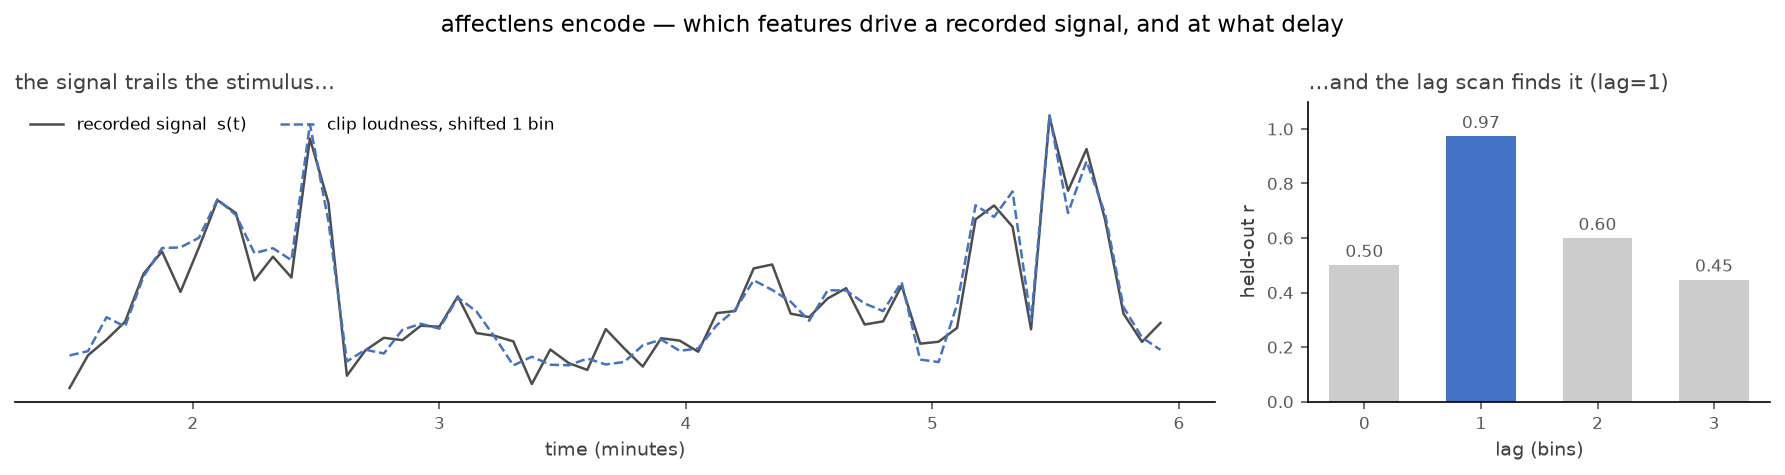
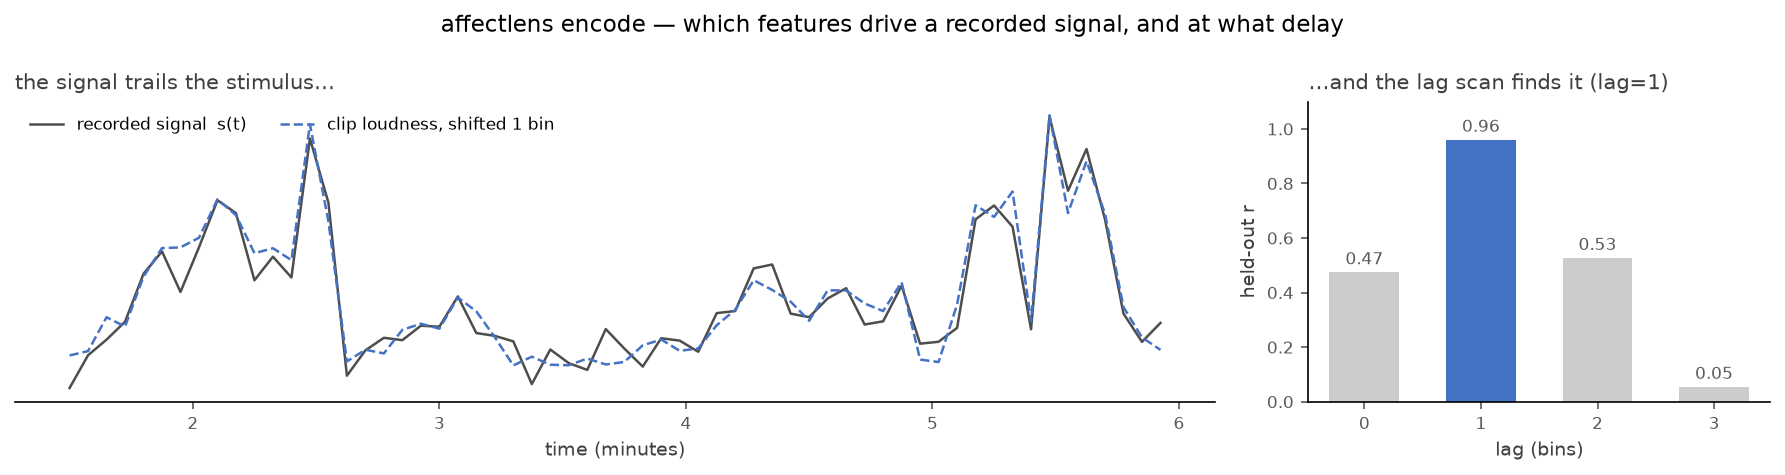
README as a report + honesty pass from an adversarial review
Reframe the README to read like a high-level report and tighten every
claim after an independent review flagged over-reach:

- encode_signal now uses CONTIGUOUS cross-validation by default
  (shuffle=False). Shuffled K-fold on an autocorrelated signal leaks
  temporally-adjacent bins across train/test and inflates held-out r —
  the wrong default for time-series/encoding work. Contiguous folds are
  the honest 'predict an unseen stretch' test. opt back in with shuffle=True.
- Results section retitled 'Does the pipeline work?' with an explicit
  'not yet validated on real neural/physiological data' disclaimer; the
  claim is now the reseed-stable qualitative result (recovers the right
  lag + right feature), with r reported as a near-noise-ceiling sanity
  number (0.96 under contiguous CV, was a leaked 0.97).
- Drop over-strong language: 'what people felt' -> 'what people rated';
  baseline docstring 'core proof point/ground truth' -> 'baseline workflow';
  semantic features described honestly (default hashed bag-of-words, real
  embeddings optional); HRF invocation softened to 'not an HRF model';
  'which features drive the signal' -> 'which features the model leans on'.
- Add what the collaborator ask needs: low->high feature spectrum in the
  pitch, an honest 'where does affect/emotion come in?' note, held-out
  prediction framing, signal time-alignment + multi-clip guidance.

Figure regenerated under the leak-free CV (deterministic, seed 7).

diff --git a/src/affectlens/encoding.py b/src/affectlens/encoding.py
@@ -12,7 +12,8 @@ fMRI ROI or vertex time series, pupil size, heart rate...). Two views:
                       several seconds after the event); scanning lags finds it.
   encode_signal    -- a cross-validated ridge *encoding model* predicting the
                       signal from all features jointly, reporting held-out r and
-                      the per-feature weights (which features drive the signal).
+                      the per-feature weights (which features the model leans on;
+                      an importance ranking, not a clean causal attribution).
 
 The signal is resampled onto the same bins as the feature matrix X, so both
 share one time base. Lags are expressed in bins; at a 4.5 s bin size, a lag of 1
@@ -112,11 +113,21 @@ def encode_signal(
     lag_bins: int = 0,
     alphas: tuple[float, ...] = (0.1, 1.0, 10.0, 100.0, 1000.0),
     n_splits: int = 5,
+    shuffle: bool = False,
 ) -> EncodingResult:
     """Cross-validated ridge encoding model: predict the signal from all features.
 
     Reports held-out Pearson r / R2 and the standardized per-feature weights
-    (largest |weight| first) -- i.e. which features carry the signal.
+    (largest |weight| first) -- i.e. which features the model leans on (read as
+    an importance ranking, not a clean causal attribution: ridge spreads weight
+    across correlated features).
+
+    Cross-validation uses **contiguous** folds by default (``shuffle=False``).
+    Recorded signals and their stimulus features are both autocorrelated in
+    time, so shuffled folds would place a test bin's temporal neighbours in the
+    training set and leak, inflating the held-out score. Contiguous folds are
+    the honest "predict an unseen stretch" test. Pass ``shuffle=True`` only if
+    your bins are genuinely exchangeable.
     """
     X = X.select_dtypes(include=[np.number])
     signal = np.asarray(signal, dtype=float)
@@ -130,7 +141,8 @@ def encode_signal(
         return EncodingResult(float("nan"), float("nan"), n, lag_bins)
 
     preds = np.full(n, np.nan)
-    for tr, te in KFold(n_splits=min(n_splits, n), shuffle=True, random_state=0).split(fx):
+    splitter = KFold(n_splits=min(n_splits, n), shuffle=shuffle, random_state=0 if shuffle else None)
+    for tr, te in splitter.split(fx):
         scaler = StandardScaler()
         model = RidgeCV(alphas=alphas)
         model.fit(scaler.fit_transform(fx[tr]), sy[tr])

diff --git a/src/affectlens/baseline.py b/src/affectlens/baseline.py
@@ -1,8 +1,9 @@
 """Baseline model: reproduce human ratings from extracted features.
 
-The core proof point: clips in, ratings out, scored against the human labels as
-ground truth. We fit a regularized linear model (RidgeCV) per rated feature and
-report cross-validated agreement.
+The baseline workflow: clips in, ratings out, scored against whatever human
+labels you supply. We fit a regularized linear model (RidgeCV) per rated feature
+and report cross-validated agreement -- how much of a rating the low-level
+features can account for, and a reference a richer model has to beat.
 
 Scoring is cross-validated so we measure generalization, not fit. When the data
 spans multiple clips we use leave-one-clip-out folds -- the honest test of

diff --git a/README.md b/README.md
@@ -1,7 +1,7 @@
 # affectlens
 
 **Extract time-varying features from video, audio, and music — then relate them
-to what people felt or what a signal recorded.**
+to what people rated or what a signal recorded.**
 
 ![Real frames from an 11-minute film above the feature time courses affectlens extracted from it](docs/images/features.png)
 
@@ -13,18 +13,23 @@ them with `python scripts/fetch_samples.py`, regenerate the figures with
 `affectlens` turns a folder of clips into aligned feature time courses and gives
 you two ready-made ways to use them:
 
-1. **Predict human ratings** — reproduce continuous behavioral ratings (energy,
-   arousal, brightness, whatever your raters scored) from the clip content, with
-   an honest cross-validated score.
+1. **Predict human ratings** — score how well clip content predicts continuous
+   behavioral ratings you supply (energy, arousal, brightness, whatever your
+   raters scored), with leave-one-clip-out cross-validation.
 2. **Explain a recorded signal** — correlate the feature time courses against a
    separately recorded continuous signal (a physiological or neuroimaging channel
    — an EEG band envelope, an fMRI ROI time series, pupil size, heart rate) and
-   fit an encoding model that says *which features drive the signal*.
+   fit a cross-validated encoding model that both predicts the signal on held-out
+   data and ranks *which features the response leans on*.
 
-It handles the unglamorous parts for you: decoding video/audio (a working ffmpeg
-is bundled, no system install), computing features on each medium's natural
-clock, and resampling everything onto one shared time grid so your design matrix
-and your target line up row-for-row.
+The features span the range you'd want as regressors — low-level physical
+(luminance, motion, loudness, spectral shape) through high-level semantic (what
+the dialogue means).
+
+It handles the unglamorous parts for you: decoding video/audio (a static ffmpeg
+ships with it via `imageio-ffmpeg`, no system install), computing features on
+each medium's natural clock, and resampling everything onto one shared time grid
+so your design matrix and your target line up row-for-row.
 
 ![affectlens pipeline: a clip fans out into visual, audio, and semantic feature families, which align onto a shared time grid to form the feature matrix X; X feeds two workflows — a cross-validated baseline against human ratings Y, and an encoding model against a recorded signal s(t)](docs/images/pipeline.png)
 
@@ -36,6 +41,51 @@ the design matrix **X** (bins × features). From there, two workflows: a
 cross-validated **baseline** that predicts human ratings **Y**, and an
 **encode** step that relates the features to a separately recorded signal
 **s(t)** with a lag search.
+
+## Does the pipeline work?
+
+These are **sanity checks on public footage** — they show the machinery is wired
+correctly. They are *not* a validation against real recordings: affectlens has
+not yet been run on real physiological or neural data, and how well features
+explain *your* signal is the empirical question you'd bring your own data for.
+
+**It runs end-to-end.** The test suite generates programmatic test clips and
+drives the entire chain — video/audio decode → feature extraction → time-grid
+alignment → rating baseline → signal encoding. A green run means every stage
+works together, not just that the modules import.
+
+**It recovers a dependence it was never told about.** On a real 11-minute film,
+we build a mock "recording" from the clip's *own* loudness delayed by one 4.5 s
+bin, add noise, and hand it to `encode` blind. With **contiguous** cross-validation
+(temporally-adjacent bins never split across train/test, so nothing leaks), the
+lag scan peaks at the planted delay and the model concentrates its weight on the
+one feature the signal was built from:
+
+| lag (bins) | 0 | **1** | 2 | 3 |
+| --- | --- | --- | --- | --- |
+| held-out *r* | 0.47 | **0.96** | 0.53 | 0.05 |
+
+The robust, reseed-stable result is qualitative: **the scan finds the right lag
+(1) and the right feature (`audio__rms_mean`), every time.** The peak held-out
+*r* ≈ 0.96 sits near the noise ceiling set by the noise we added — it says the
+plumbing recovers a known signal at the right delay, nothing more.
+
+![encode recovering a planted one-bin lag between a clip's loudness and a demo signal](docs/images/encoding.png)
+
+Swap the mock recording for a real signal (an EEG band envelope, an fMRI ROI
+time course, pupil size) and `encode` relates your features to it the same way —
+reporting a held-out *r*, so you can ask both *"which features does the response
+lean on?"* and *"how well can I predict it?"*
+
+Reproduce the whole thing from scratch — public sample clips, one fixed-seed
+script, no private data:
+
+```bash
+pip install -e ".[dev]" matplotlib
+python scripts/fetch_samples.py                       # linked CC/public clips
+affectlens extract --clips examples/samples --out out/
+python scripts/make_readme_figures.py                 # regenerates the figures here
+```
 
 ## Install
 
@@ -71,11 +121,9 @@ affectlens encode --features out/clip_01__features.csv \
 affectlens selftest
 ```
 
-Here is step 4 on real data — a demo "recording" built from the sample film's
-own loudness delayed by one 4.5 s bin (plus noise). The lag scan recovers the
-delay, and the model's top weight lands on the true driving feature:
-
-![encode recovering a planted one-bin lag between a clip's loudness and a demo signal](docs/images/encoding.png)
+(Step 4 is the sanity check shown in [Does the pipeline work?](#does-the-pipeline-work)
+above, run on a real film. The CLI's `--lags 0,1,2` *scans* those lags; the
+library's `lag_bins=1` fixes one — same machinery, two entry points.)
 
 ### As a library
 
@@ -107,7 +155,11 @@ print(enc.r, enc.weights[:5])     # held-out r, and the features that drive it
 - **Dialogue** (optional, for semantic features) — a subtitle sidecar
   (`clip.srt` / `.vtt`) or `clip.csv` with `t_start,t_end,text` next to each clip.
   The transcription and embedding steps are swappable interfaces (see below).
-- **Signal** (optional, for `encode`) — CSV with a time column and a value column.
+- **Signal** (optional, for `encode`) — CSV with a time column and a value
+  column. Timestamps must be in seconds relative to clip onset, and `interval_s`
+  must match the feature bin width. `encode` operates on one clip's features at a
+  time; to model a whole run, concatenate the per-clip feature matrices and the
+  signal in the same bin order.
 
 ## Features
 
@@ -115,11 +167,18 @@ print(enc.r, enc.weights[:5])     # held-out r, and the features that drive it
 | --- | --- | --- |
 | Visual (low-level) | luminance, contrast, colorfulness, saturation, edge density, motion | `lowlevel.py` |
 | Audio (low-level) | loudness (RMS), zero-crossing rate, spectral centroid, spectral flux | `lowlevel.py` |
-| Semantic (high-level) | embeddings of dialogue chunks — tracks *meaning*, not pixels | `highlevel.py` |
+| Semantic (high-level) | text features from dialogue (default: hashed bag-of-words; optional sentence-transformer embeddings for true semantic similarity) | `highlevel.py` |
 
 Within each rating bin every stream is aggregated with **mean, std, and max**, so
 a coarse time grid still carries sharp within-bin events (a surprise, an energy
 spike) — the `*_max` / `*_std` columns retain them.
+
+**Where does affect/emotion come in?** affectlens does not read emotion off the
+pixels. Affect enters two ways, both honest: as **semantic** regressors
+(dialogue-based text features), and via the **ratings path** — supply affect
+ratings (arousal, valence, …) and the baseline scores how well clip content
+predicts them and which features carry them. Either can then be correlated with
+a recorded signal through `encode`.
 
 ### Swappable semantic backends
 
@@ -145,7 +204,9 @@ Nothing downstream changes when you swap them.
   say *why*. It's the number a fancier model has to beat.
 - **Lag-aware encoding.** A recorded response often trails the stimulus by a
   fixed delay (an fMRI hemodynamic response peaks seconds later). `encode`/
-  `correlate` scan lags so you find that delay instead of missing the signal.
+  `correlate` scan a few integer-bin lags so you find that delay instead of
+  missing the signal. This is a crude stand-in for a response delay, not an HRF
+  model — no convolution, no continuous kernel; a first pass, not the last word.
 
 ## Development
 
@@ -154,9 +215,9 @@ pip install -e ".[dev]"
 pytest
 ```
 
-The test suite generates real synthetic clips and runs the whole pipeline
-end-to-end, so a green run means video decode, feature extraction, alignment,
-rating baseline, and signal encoding all work.
+The suite generates programmatic test clips and exercises the whole pipeline
+end-to-end (decode → features → alignment → baseline → encoding) — see
+[Does the pipeline work?](#does-the-pipeline-work) for what a green run buys you.
 
 ## License
 